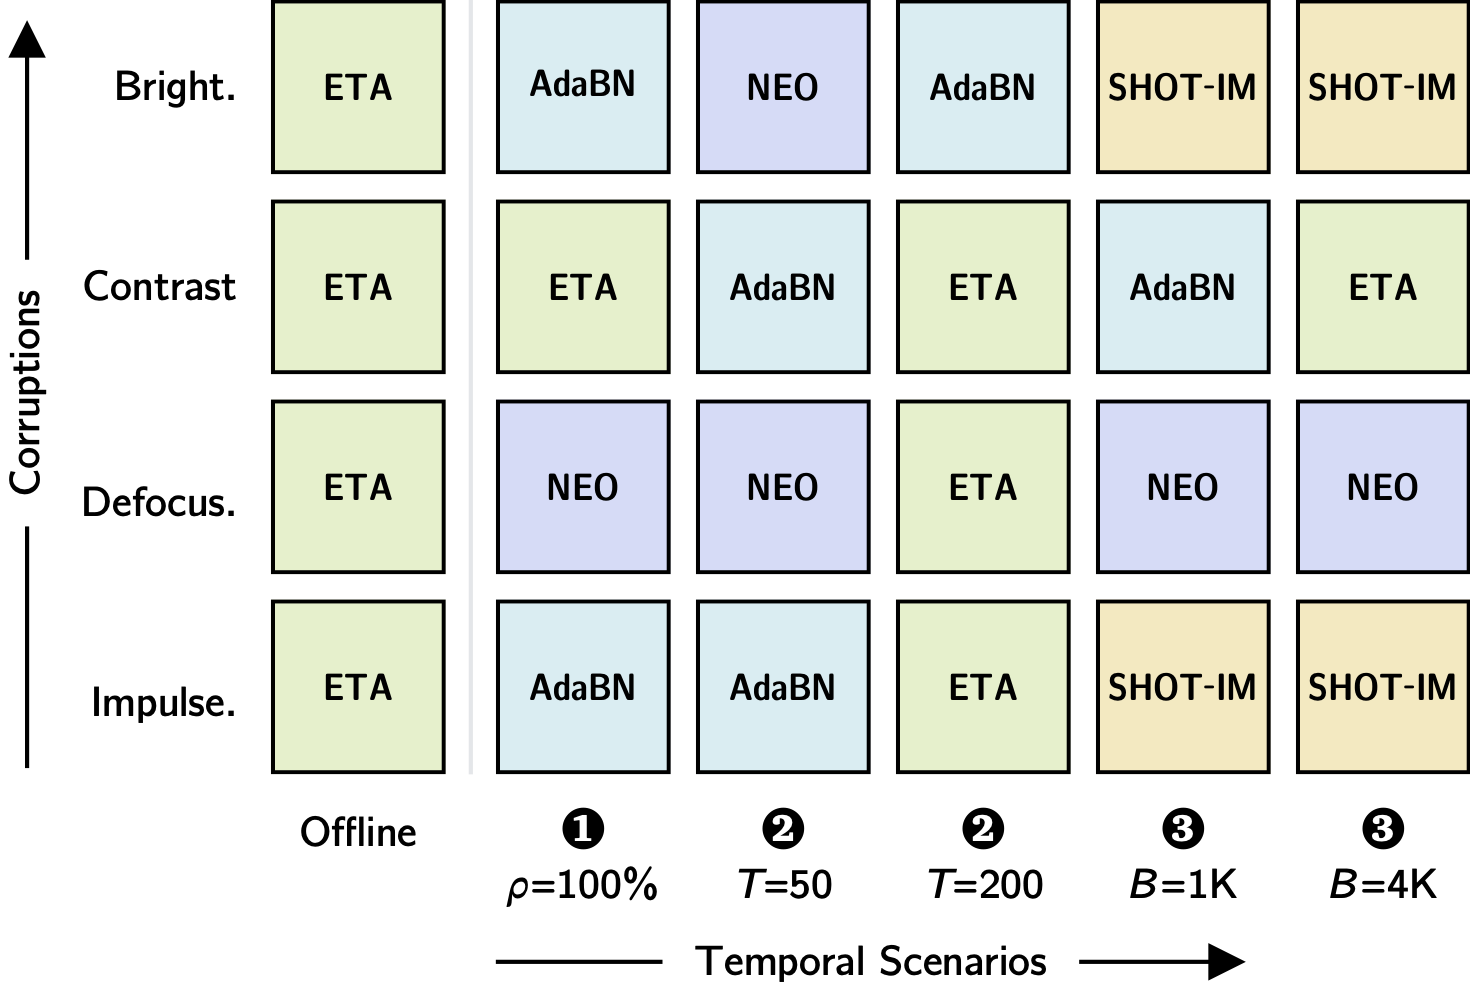
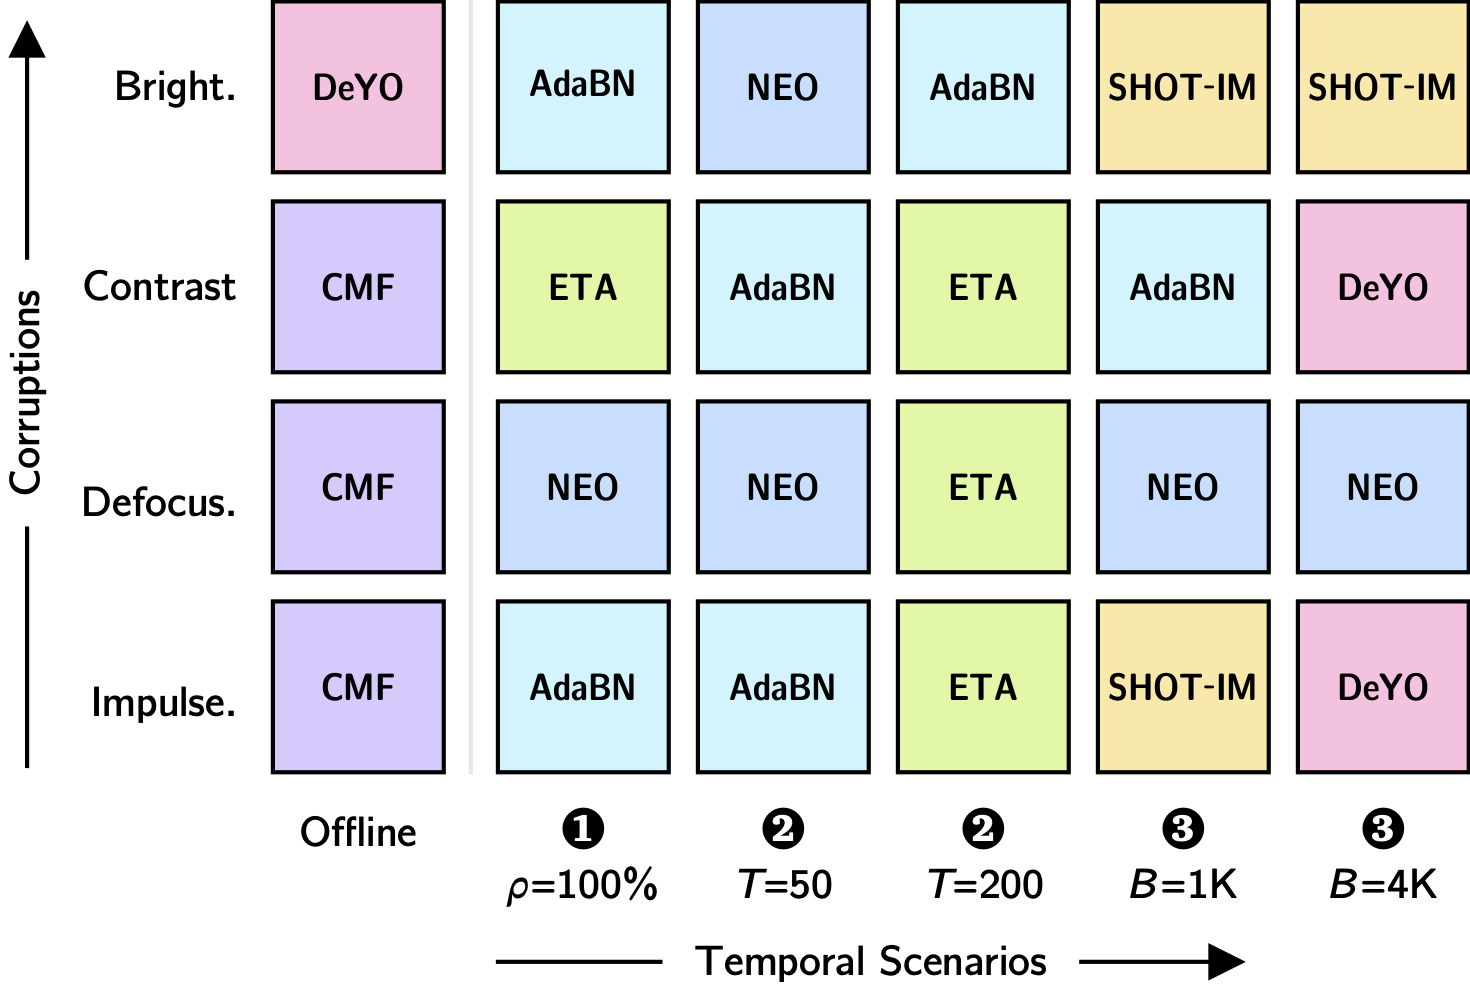
updated tempora with its camera-ready paper

diff --git a/index.html b/index.html
@@ -185,7 +185,7 @@
 
                 <li class="row-fluid">
                   <span class="news-date span3">May, 2026</span>
-                  <span class="news-content span9">Our paper <a href="papers/articles/sreeram_tempora_2026.pdf" target="_blank">"Tempora: Characterising the Time-Contingent Utility of Online Test-Time Adaptation"</a> is accepted at ICML 2026! <font color="red">[Paper]</font><br><i>Congrats to Sudo and Prof. Mascolo (Univ. of Cambridge)</i></span>
+                  <span class="news-content span9">Our paper <a href="papers/articles/sreeram_tempora_icml26.pdf" target="_blank">"Tempora: Characterising the Time-Contingent Utility of Online Test-Time Adaptation"</a> is accepted at ICML 2026! <font color="red">[Paper]</font><br><i>Congrats to Sudo and Prof. Mascolo (Univ. of Cambridge)</i></span>
                 </li>
 
                 <li class="row-fluid">
@@ -232,7 +232,7 @@
 
                 <li class="row-fluid">
                   <span class="news-date span3">Feb, 2026</span>
-                  <span class="news-content span9">Our paper <a href="papers/articles/sreeram_tempora_2026.pdf" target="_blank">"Tempora: Characterising the Time-Contingent Utility of Online Test-Time Adaptation"</a> is now available online! <font color="red">[Preprint]</font><br><i>Congrats to Sudo and Prof. Mascolo (Univ. of Cambridge)</i></span>
+                  <span class="news-content span9">Our paper <a href="papers/articles/sreeram_tempora_icml26.pdf" target="_blank">"Tempora: Characterising the Time-Contingent Utility of Online Test-Time Adaptation"</a> is now available online! <font color="red">[Preprint]</font><br><i>Congrats to Sudo and Prof. Mascolo (Univ. of Cambridge)</i></span>
                 </li>
 
                 <li class="row-fluid">
@@ -449,8 +449,10 @@
                   <font color="#aaaaaa">Sudarshan Sreeram, <font color="#000000"><u>Young D. Kwon</u></font>, and
                   Cecilia Mascolo</font><br>
                   <i><font color="red">ICML 2026</font></i>
-                  | <a href="papers/articles/sreeram_tempora_2026.pdf" target="_blank">PDF</a>
+                  | <a href="papers/articles/sreeram_tempora_icml26.pdf" target="_blank">PDF</a>
+                  | <a href="papers/bibs/sreeram_tempora_icml26.txt" target="_blank">BibTex</a>
                   | <a href="https://arxiv.org/abs/2602.06136" target="_blank">Link</a>
+                  | <a href="https://github.com/sudotensor/tempora" target="_blank">Code</a>
                 </div>
               </div>
 

diff --git a/research.html b/research.html
@@ -211,8 +211,10 @@
                     <font color="#aaaaaa">Sudarshan Sreeram, <font color="#000000"><u>Young D. Kwon</u></font>, and
                     Cecilia Mascolo</font><br>
                     <i><font color="red">ICML 2026</font></i>
-                    | <a href="papers/articles/sreeram_tempora_2026.pdf" target="_blank">PDF</a>
+                    | <a href="papers/articles/sreeram_tempora_icml26.pdf" target="_blank">PDF</a>
+                    | <a href="papers/bibs/sreeram_tempora_icml26.txt" target="_blank">BibTex</a>
                     | <a href="https://arxiv.org/abs/2602.06136" target="_blank">Link</a>
+                    | <a href="https://github.com/sudotensor/tempora" target="_blank">Code</a>
                   </p>
                 </li>
 